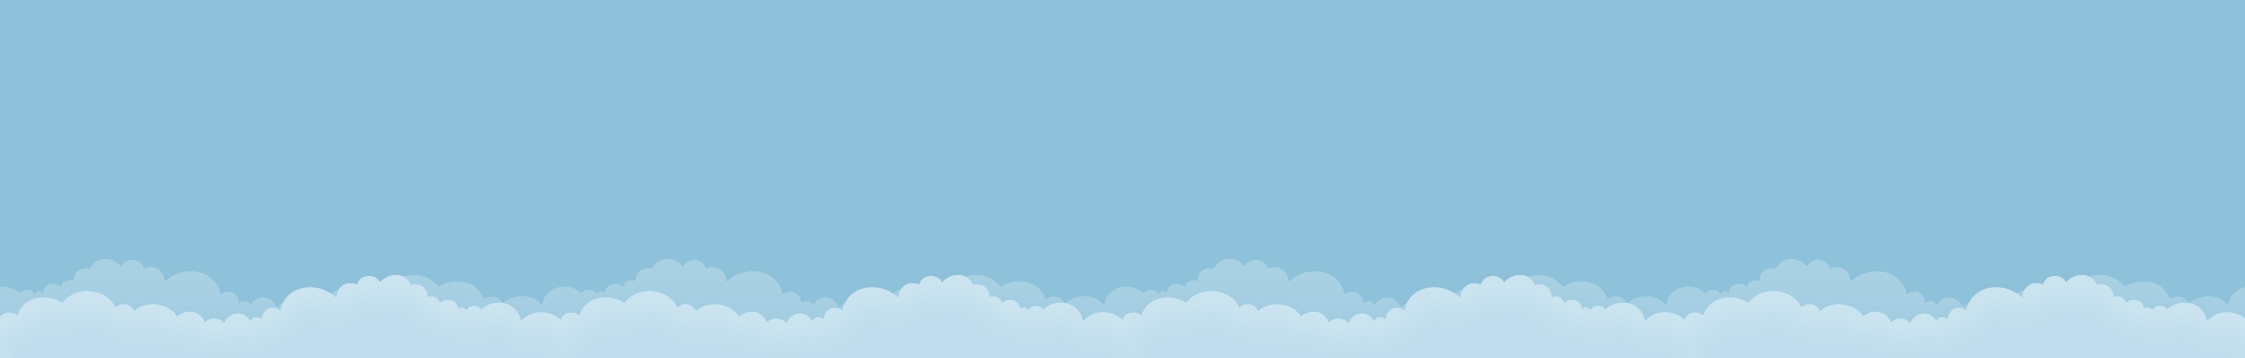
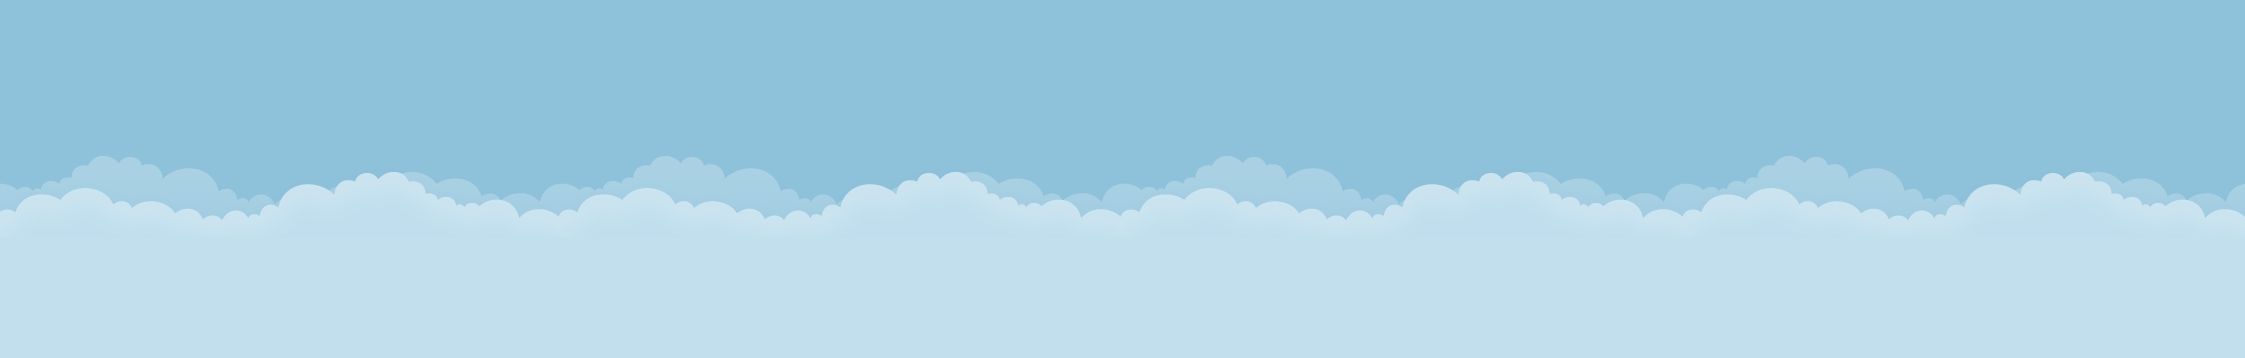
Fixing responsive issues

diff --git a/src/components/pages/MainPage/index.tsx b/src/components/pages/MainPage/index.tsx
@@ -24,19 +24,19 @@ export const MainPage: React.FC = () => {
   const [bodyMargin, setBodyMargin] = useState(0);
 
   // Media query
-  const screenSize: ScreenSize = getScreenSize()
-  const mobileScreen = isMobileScreen(screenSize)
+  const screenSize: ScreenSize = getScreenSize();
+  const mobileScreen = isMobileScreen(screenSize);
 
   useEffect(() => {
     if (profileRef && profileRef.current) {
-      setBodyMargin(profileRef.current.clientHeight - (mobileScreen ? 120 : 90));
+      setBodyMargin(profileRef.current.clientHeight);
     }
   });
 
   // Section spacer according to screenSize
-  let sectionSpacer = 64
+  let sectionSpacer = 64;
   if (mobileScreen) {
-    sectionSpacer = 32
+    sectionSpacer = 32;
   }
 
   return (
@@ -51,30 +51,30 @@ export const MainPage: React.FC = () => {
       </header>
       <Spacer size={`${bodyMargin}px`} type="horizontal" />
       <ProfileDescription>
-        I'm a big techie, I love everything to do with new tech and software. I take pride in delivering my<br />
-        products in the highest quality and ensuring that the products have the best user experience and<br />
-        customer engagement. I am continuously in pursuit of improving myself and my work so that I bring<br />
-        out the best in myself and the people I work with. I have worked in the IT industry for 7 years and<br />
-        worked on a variety of technologies and projects. I love a challenge and I am quick to adapt and<br />
+        I'm a big techie, I love everything to do with new tech and software. I take pride in delivering my
+        products in the highest quality and ensuring that the products have the best user experience and
+        customer engagement. I am continuously in pursuit of improving myself and my work so that I bring
+        out the best in myself and the people I work with. I have worked in the IT industry for 7 years and
+        worked on a variety of technologies and projects. I love a challenge and I am quick to adapt and
         evolve, see the bigger picture and solve problems for customers.<br />
       </ProfileDescription>
       <Spacer size={`${sectionSpacer}px`} type="horizontal" />
       <S.DownloadButtonContainer>
         <Button onClick={() => ''}>Download Resume</Button>
       </S.DownloadButtonContainer>
-      <Spacer size={`${sectionSpacer*2}px`} type="horizontal" />
+      <Spacer size={`${sectionSpacer * 2}px`} type="horizontal" />
       <TechSection />
-      <Spacer size={`${sectionSpacer*2}px`} type="horizontal" />
+      <Spacer size={`${sectionSpacer * 2}px`} type="horizontal" />
       <ProjectSection />
       <QuoteSection />
-      <Spacer size={`${sectionSpacer*2}px`} type="horizontal" />
+      <Spacer size={`${sectionSpacer * 2}px`} type="horizontal" />
       <ReviewSection />
       <Spacer size={`${sectionSpacer}px`} type="horizontal" />
       <ContactSection />
       <Spacer size={`${sectionSpacer}px`} type="horizontal" />
       <footer>
         <ProfileIcons icons={icons} defaultColor={theme.colors.white} />
-        <Spacer size={`${sectionSpacer+32}px`} type="horizontal" />
+        <Spacer size={`${sectionSpacer + 32}px`} type="horizontal" />
         Copyright © {new Date().getFullYear()} Vish - All Rights Reserved.
       </footer>
     </S.MainPageWrapper>

diff --git a/src/globalStyles/themes.ts b/src/globalStyles/themes.ts
@@ -104,8 +104,8 @@ export const defaultTheme = {
         desktop: "64px",
         largetab: "48px",
         tab: "48px",
-        largemobile: "32px",
-        mobile: "32px",
+        largemobile: "32px 0",
+        mobile: "32px 0",
       },
       shadow: C.theme.shadows.shadow1,
       width: "auto",
@@ -124,12 +124,26 @@ export const defaultTheme = {
       attributes: {
         label: {
           color: C.theme.fontColors.gray2,
-          fontSize: C.theme.fontSizes.paragraph1,
+          fontSize: {
+            largedesktop: C.theme.fontSizes.paragraph1,
+            desktop: C.theme.fontSizes.paragraph1,
+            largetab: C.theme.fontSizes.paragraph1,
+            tab: C.theme.fontSizes.paragraph1,
+            largemobile: C.theme.fontSizes.caption,
+            mobile: C.theme.fontSizes.caption,
+          },
           fontWeight: C.theme.fontWeights.semiBold,
         },
         value: {
           color: C.theme.fontColors.black,
-          fontSize: C.theme.fontSizes.paragraph1,
+          fontSize: {
+            largedesktop: C.theme.fontSizes.paragraph1,
+            desktop: C.theme.fontSizes.paragraph1,
+            largetab: C.theme.fontSizes.paragraph1,
+            tab: C.theme.fontSizes.paragraph1,
+            largemobile: C.theme.fontSizes.caption,
+            mobile: C.theme.fontSizes.caption,
+          },
           fontWeight: C.theme.fontWeights.bold,
         },
       },
@@ -159,18 +173,42 @@ export const defaultTheme = {
         fontWeight: C.theme.fontWeights.semiBold,
       },
     },
-    top: {
+    width: {
       largedesktop: "50%",
       desktop: "50%",
       largetab: "50%",
       tab: "50%",
-      largemobile: "30%",
-      mobile: "30%",
+      largemobile: "90%",
+      mobile: "90%",
+    },
+    height: {
+      largedesktop: "37vh",
+      desktop: "37vh",
+      largetab: "37vh",
+      tab: "37vh",
+      largemobile: "20vh",
+      mobile: "20vh",
+    },
+    top: {
+      largedesktop: "30vh",
+      desktop: "30vh",
+      largetab: "30vh",
+      tab: "30vh",
+      largemobile: "16vh",
+      mobile: "16vh",
     },
     shadow: C.theme.shadows.shadow3,
   },
   body: {
     description: {
+      width: {
+        largedesktop: "70%",
+        desktop: "70%",
+        largetab: "70%",
+        tab: "70%",
+        largemobile: "90%",
+        mobile: "90%",
+      },
       color: C.theme.fontColors.black,
       fontSize: C.theme.fontSizes.subTitle,
       fontWeight: C.theme.fontWeights.regular,

diff --git a/src/components/atoms/ProjectPicture/index.tsx b/src/components/atoms/ProjectPicture/index.tsx
@@ -3,13 +3,13 @@ import * as S from './styles';
 import { ProjectPictureProps } from './types';
 import { getScreenSize, isMobileScreen, ScreenSize } from '../../../globalStyles/media';
 
-export const ProjectPicture: React.FC<ProjectPictureProps> = ({ pictureUrl, index }) => {
+export const ProjectPicture: React.FC<ProjectPictureProps> = ({ pictureUrl, link, index }) => {
 
   const maxTilt = 30; // Max card tilt (deg).
 
   // Media query
-  const screenSize: ScreenSize = getScreenSize()
-  const isMobile = isMobileScreen(screenSize)
+  const screenSize: ScreenSize = getScreenSize();
+  const isMobile = isMobileScreen(screenSize);
 
   // Finding out the bounding element from mouse event
   const mouseOverBoundingElem = (evt: any | null) => {
@@ -34,7 +34,7 @@ export const ProjectPicture: React.FC<ProjectPictureProps> = ({ pictureUrl, inde
 
     // Don't animate if mobile screen
     if (isMobile) {
-      return
+      return;
     }
 
     const bounding = mouseOverBoundingElem(evt);
@@ -79,9 +79,11 @@ export const ProjectPicture: React.FC<ProjectPictureProps> = ({ pictureUrl, inde
 
   return (
     <S.ProjectPictureContainer screenSize={screenSize}>
-      <S.ProjectPictureWrapper onMouseMove={handleMouseMove} onMouseLeave={handleMouseLeave}>
+      <S.ProjectPictureWrapper onMouseMove={handleMouseMove} onMouseLeave={handleMouseLeave} isMobile={isMobile}>
         <S.ProjectPictureHoverWrapper id={`project-picture-cover${index}`} backgroundImage={pictureUrl}>
-          <img src={pictureUrl} alt="project-picture" />
+          <a href={link} target="_blank">
+            <img src={pictureUrl} alt="project-picture" />
+          </a>
           <S.ProjectPictureGloss id={`project-picture-gloss${index}`} />
         </S.ProjectPictureHoverWrapper>
       </S.ProjectPictureWrapper>

diff --git a/src/components/organisms/ReviewSection/index.tsx b/src/components/organisms/ReviewSection/index.tsx
@@ -4,11 +4,10 @@ import { SectionHeader } from '../../atoms/SectionHeader';
 import { ReviewCard } from '../../molecules/ReviewCard';
 import { ReviewCardProps } from '../../molecules/ReviewCard/types';
 import sampleReviewerPicture from '../../../images/samplereviewerpic.svg';
-import Carousel, { arrowsPlugin, autoplayPlugin, slidesToShowPlugin } from '@brainhubeu/react-carousel';
+import Carousel, { autoplayPlugin, slidesToShowPlugin } from '@brainhubeu/react-carousel';
 import '@brainhubeu/react-carousel/lib/style.css';
 import 'react-multi-carousel/lib/styles.css';
 import { getScreenSize, isMobileScreen, ScreenSize } from '../../../globalStyles/media';
-import { CarouselButton } from '../../atoms/CarouselButton';
 
 const reviews: ReviewCardProps[] = [
   {
@@ -71,16 +70,6 @@ export const ReviewSection: React.FC = () => {
           plugins={[
             'centered',
             'infinite',
-            {
-              resolve: arrowsPlugin,
-              options: {
-                arrowLeft: <CarouselButton carouselButtonPosition="left" />,
-                arrowLeftDisabled: <CarouselButton disabled carouselButtonPosition="left" />,
-                arrowRight: <CarouselButton carouselButtonPosition="right" />,
-                arrowRightDisabled: <CarouselButton disabled carouselButtonPosition="right" />,
-                addArrowClickHandler: false,
-              },
-            },
             {
               resolve: autoplayPlugin,
               options: {

diff --git a/src/components/atoms/ProfileAttribute/styles.ts b/src/components/atoms/ProfileAttribute/styles.ts
@@ -1,18 +1,19 @@
 import {styled} from "../../../globalStyles";
+import { ScreenSize } from '../../../globalStyles/media';
 
-export const ProfileAttributeWrapper = styled.div`
+export const ProfileAttributeWrapper = styled.div<{ screenSize: ScreenSize }>`
   ${props => `
   
     display: grid;
     grid-template-columns: 50px 24px 1fr;
   
     color: ${props.theme.banner.profile.attributes.value.color};
-    font-size: ${props.theme.banner.profile.attributes.value.fontSize};
+    font-size: ${props.theme.banner.profile.attributes.value.fontSize[props.screenSize]};
     font-weight: ${props.theme.banner.profile.attributes.value.fontWeight};
     
     label {
       color: ${props.theme.banner.profile.attributes.label.color};
-      font-size: ${props.theme.banner.profile.attributes.label.fontSize};
+      font-size: ${props.theme.banner.profile.attributes.label.fontSize[props.screenSize]};
       font-weight: ${props.theme.banner.profile.attributes.label.fontWeight};
     }
   `}

diff --git a/src/components/organisms/QuoteSection/index.tsx b/src/components/organisms/QuoteSection/index.tsx
@@ -4,6 +4,7 @@ import { SectionHeader } from '../../atoms/SectionHeader';
 import { ParallaxContainer } from '../../atoms/ParallaxContainer';
 import quoteBackgroundImage from '../../../images/quote-background.jpg';
 import { getScreenSize, ScreenSize } from '../../../globalStyles/media';
+import Fade from 'react-reveal/Fade';
 
 export const QuoteSection: React.FC = () => {
 
@@ -16,8 +17,10 @@ export const QuoteSection: React.FC = () => {
       <ParallaxContainer backgroundImageUrl={quoteBackgroundImage}>
         <S.QuoteSectionOverlay>
           <S.QuoteSectionTextWrapper screenSize={screenSize}>
+            <Fade bottom>
             "I want you to know that it doesn't matter how hard you work, that I'm willing to work harder than you." -
             Kobe Bryant to Jay Williams
+            </Fade>
           </S.QuoteSectionTextWrapper>
         </S.QuoteSectionOverlay>
       </ParallaxContainer>

diff --git a/src/components/molecules/Project/index.tsx b/src/components/molecules/Project/index.tsx
@@ -19,7 +19,7 @@ export const Project: React.FC<ProjectProps> = ({ orientation, projectImage, des
         orientation === 'left' || isMobile ?
           <>
             <Fade left>
-              <ProjectPicture pictureUrl={projectImage} index={index} />
+              <ProjectPicture pictureUrl={projectImage} link={description.link} index={index} />
             </Fade>
             <Fade right>
               <ProjectDescription textAlign={orientation} {...description} />
@@ -31,7 +31,7 @@ export const Project: React.FC<ProjectProps> = ({ orientation, projectImage, des
               <ProjectDescription textAlign="right" {...description} />
             </Fade>
             <Fade right>
-              <ProjectPicture pictureUrl={projectImage} index={index} />
+              <ProjectPicture pictureUrl={projectImage} link={description.link} index={index} />
             </Fade>
           </>
       }

diff --git a/src/components/atoms/Banner/index.tsx b/src/components/atoms/Banner/index.tsx
@@ -1,15 +1,20 @@
 import * as React from "react"
 import * as S from "./styles"
 import cloudsImage from "../../../images/clouds.png"
+import cloudsMobileImage from "../../../images/clouds-mobile.png"
 import {Overlay} from "../Overlay";
 import {gradient1} from "../../../globalStyles/constants";
-import { getScreenSize } from '../../../globalStyles/media';
+import { getScreenSize, isMobileScreen, ScreenSize } from '../../../globalStyles/media';
 
 export const Banner: React.FC = () => {
 
+  // Media query
+  const screenSize: ScreenSize = getScreenSize()
+  const isMobile = isMobileScreen(screenSize)
+
   return (
     <S.BannerWrapper>
-      <S.BannerJPGImage backgroundImage={cloudsImage} />
+      <S.BannerJPGImage backgroundImage={isMobile ? cloudsMobileImage : cloudsImage} screenSize={screenSize} />
       <Overlay backgroundColor={gradient1}/>
     </S.BannerWrapper>
   )

diff --git a/src/components/atoms/Banner/styles.ts b/src/components/atoms/Banner/styles.ts
@@ -1,4 +1,5 @@
 import { styled } from '../../../globalStyles';
+import { ScreenSize } from '../../../globalStyles/media';
 
 export const BannerWrapper = styled.div`
   ${props => `
@@ -9,10 +10,12 @@ export const BannerWrapper = styled.div`
   `}
 `;
 
-export const BannerJPGImage = styled.div<{ backgroundImage: string }>`
+export const BannerJPGImage = styled.div<{ backgroundImage: string, screenSize: ScreenSize }>`
+  ${props => `
+    height: ${props.theme.banner.height[props.screenSize]};
+    width: 100%;
+  `};
   object-fit: cover;
-  width: 100%;
-  height: 37vh;
   background-color:#C0DEED;
   background: url(${props => props.backgroundImage}) center top repeat-x;
   animation: ${props => props.theme.animation.cloudAnimation} 20s alternate infinite;

diff --git a/src/components/atoms/ProfileDescription/styles.ts b/src/components/atoms/ProfileDescription/styles.ts
@@ -1,6 +1,7 @@
 import {styled} from "../../../globalStyles";
+import { ScreenSize } from '../../../globalStyles/media';
 
-export const ProfileDescriptionWrapper = styled.div`
+export const ProfileDescriptionWrapper = styled.div<{ screenSize: ScreenSize }>`
   ${props => `
     
     color: ${props.theme.body.description.color};
@@ -9,8 +10,10 @@ export const ProfileDescriptionWrapper = styled.div`
     text-align: center;
     display: flex;
     justify-content: center;
-    width: 100%;
+    width: auto;
     margin: auto;
+    padding: 16px;
+    width: ${props.theme.body.description.width[props.screenSize]};
     
     p {
       line-height: 32px;

diff --git a/src/components/atoms/ProjectPicture/styles.ts b/src/components/atoms/ProjectPicture/styles.ts
@@ -14,7 +14,7 @@ export const ProjectPictureContainer = styled.div<{ screenSize: ScreenSize }>`
   `}
 `
 
-export const ProjectPictureWrapper = styled.div`
+export const ProjectPictureWrapper = styled.div<{ isMobile?: boolean }>`
   ${props => `
   position: relative;
     z-index: 1;
@@ -23,10 +23,13 @@ export const ProjectPictureWrapper = styled.div`
     perspective: 1000px;
     transition: transform 0.35s;
 
-    &:hover {
+    ${props.isMobile ? `` : `
+      &:hover {
         transform: scale(1.2);
         z-index: 10;
-    }
+      }    
+    `}
+
   `}
 `;
 

diff --git a/src/components/atoms/ProfileAttribute/index.tsx b/src/components/atoms/ProfileAttribute/index.tsx
@@ -1,10 +1,15 @@
 import * as React from "react"
 import * as S from "./styles"
 import {ProfileAttributeProps} from "./types"
+import { getScreenSize, ScreenSize } from '../../../globalStyles/media';
 
 export const ProfileAttribute: React.FC<ProfileAttributeProps> = ({label, value}) => {
+
+  // Media query
+  const screenSize: ScreenSize = getScreenSize()
+
   return (
-    <S.ProfileAttributeWrapper>
+    <S.ProfileAttributeWrapper screenSize={screenSize}>
       <label>{label}</label> : <span>{value}</span>
     </S.ProfileAttributeWrapper>
   )
